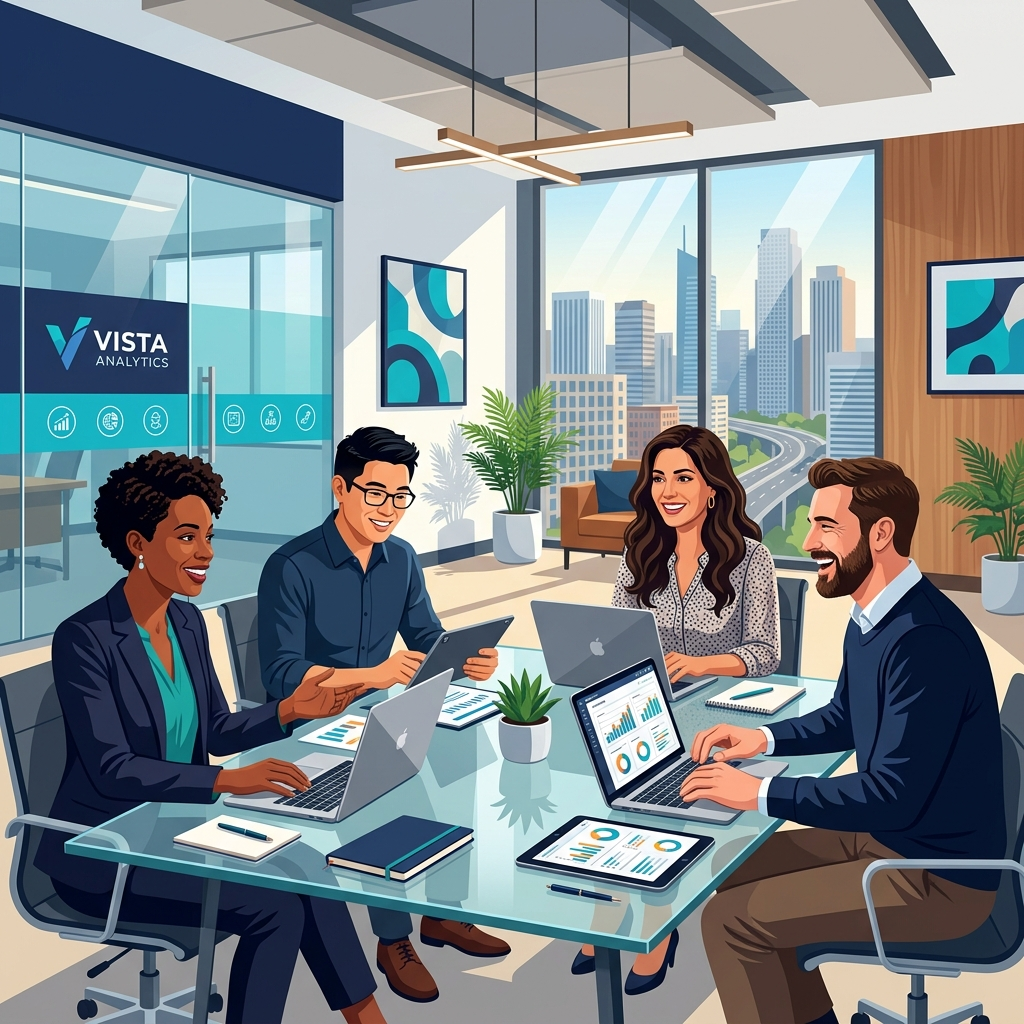
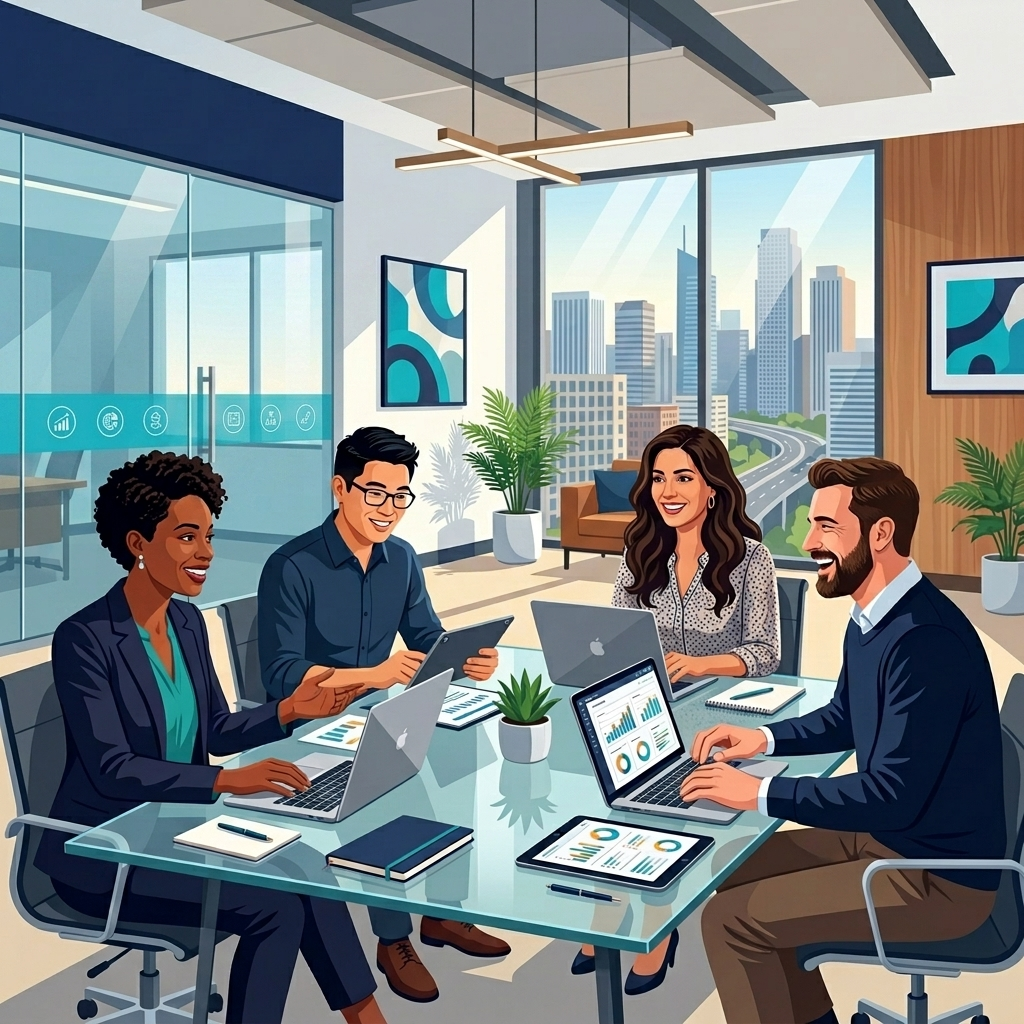
faster

diff --git a/src/index.css b/src/index.css
@@ -647,7 +647,7 @@ h1, h2, h3, h4, h5, h6 {
   border-radius: 50%;
   pointer-events: none;
   z-index: 2;
-  animation: blobFloat1 9s ease-in-out infinite;
+/* animation removed for performance */
 }
 
 .hero-orb-2 {
@@ -660,7 +660,7 @@ h1, h2, h3, h4, h5, h6 {
   border-radius: 50%;
   pointer-events: none;
   z-index: 2;
-  animation: blobFloat2 12s ease-in-out infinite;
+/* animation removed for performance */
 }
 
 .hero-orb-3 {
@@ -673,7 +673,7 @@ h1, h2, h3, h4, h5, h6 {
   border-radius: 50%;
   pointer-events: none;
   z-index: 2;
-  animation: blobFloat3 16s ease-in-out infinite;
+/* animation removed for performance */
 }
 
 /* Decorative geometric ring */
@@ -687,7 +687,7 @@ h1, h2, h3, h4, h5, h6 {
   border-radius: 50%;
   pointer-events: none;
   z-index: 2;
-  animation: spinSlow 20s linear infinite;
+/* animation removed for performance */
 }
 
 .hero-ring::before {
@@ -725,7 +725,7 @@ h1, h2, h3, h4, h5, h6 {
   border-bottom: 52px solid rgba(71,176,199,0.10);
   pointer-events: none;
   z-index: 2;
-  animation: blobFloat1 7s ease-in-out infinite;
+/* animation removed for performance */
 }
 
 .hero-triangle-2 {
@@ -739,7 +739,7 @@ h1, h2, h3, h4, h5, h6 {
   border-bottom: 32px solid rgba(36,68,112,0.08);
   pointer-events: none;
   z-index: 2;
-  animation: blobFloat2 11s ease-in-out infinite;
+/* animation removed for performance */
 }
 
 /* Split hero layout */
@@ -791,11 +791,11 @@ h1, h2, h3, h4, h5, h6 {
 .code-window .dot { width:10px; height:10px; border-radius:50%; background:rgba(36,68,112,0.12); display:inline-block; }
 .code-window .cw-body { padding: var(--space-3); display:flex; flex-direction:column; gap: var(--space-2); }
 .code-line { height:10px; border-radius:6px; background:linear-gradient(90deg, rgba(36,68,112,0.06), rgba(71,176,199,0.08)); opacity:0.95; transform-origin:left; }
-.code-line.l1 { width:86%; animation: shimmer 2.6s var(--anim-ease) infinite; }
-.code-line.l2 { width:72%; animation: shimmer 2.4s var(--anim-ease) 0.12s infinite; }
-.code-line.l3 { width:58%; animation: shimmer 2.8s var(--anim-ease) 0.18s infinite; }
-.code-line.l4 { width:80%; animation: shimmer 2.2s var(--anim-ease) 0.08s infinite; }
-.code-line.l5 { width:48%; animation: shimmer 3s var(--anim-ease) 0.22s infinite; }
+/* animation removed for performance */
+/* animation removed for performance */
+/* animation removed for performance */
+/* animation removed for performance */
+/* animation removed for performance */
 
 /* Floating glass card */
 .floating-card { position: absolute; left: -6%; bottom: -6%; width: 320px; padding: var(--space-4); border-radius: var(--radius); transform: translateZ(24px) rotateY(6deg); z-index:4; }
@@ -809,7 +809,7 @@ h1, h2, h3, h4, h5, h6 {
   position: absolute; inset: 0; z-index: 1; pointer-events: none;
   background: radial-gradient(800px circle at 12% 28%, rgba(71,176,199,0.045), transparent 12%), radial-gradient(600px circle at 82% 30%, rgba(36,68,112,0.03), transparent 12%);
   mix-blend-mode: screen; opacity:0.9; filter: blur(12px);
-  animation: gradientShift 10s linear infinite;
+/* animation removed for performance */
 }
 
 /* responsive adjustments */
@@ -849,7 +849,7 @@ h1, h2, h3, h4, h5, h6 {
   height: auto;
   border-radius: 28px;
   filter: drop-shadow(0 28px 90px rgba(36,68,112,0.16));
-  animation: floatIllustration 6.5s var(--anim-ease) infinite;
+/* animation removed for performance */
   transition: transform 0.45s var(--anim-ease), box-shadow 0.45s var(--anim-ease);
   backface-visibility: hidden;
   will-change: transform;
@@ -867,7 +867,7 @@ h1, h2, h3, h4, h5, h6 {
   border-radius: 50%;
   background: radial-gradient(circle, rgba(71,176,199,0.15) 0%, transparent 70%);
   z-index: -1;
-  animation: pulseGlow 4s ease-in-out infinite;
+/* animation removed for performance */
 }
 
 /* Hero badge */
@@ -893,7 +893,7 @@ h1, h2, h3, h4, h5, h6 {
   height: 6px;
   background: var(--secondary);
   border-radius: 50%;
-  animation: pulse 2s ease-in-out infinite;
+/* animation removed for performance */
 }
 
 .hero-title {
@@ -1125,7 +1125,7 @@ h1, h2, h3, h4, h5, h6 {
   height: 4px;
   background: linear-gradient(90deg, var(--secondary) 0%, var(--primary) 50%, var(--secondary) 100%);
   background-size: 200% 100%;
-  animation: shimmerLine 4s linear infinite;
+/* animation removed for performance */
 }
 
 /* Wave divider for section transitions */
@@ -1398,7 +1398,7 @@ h1, h2, h3, h4, h5, h6 {
   inset: 0;
   background: linear-gradient(160deg, #F7FBFB 0%, #E0EFF6 55%, #EBF5FA 100%);
   background-size: 200% 200%;
-  animation: gradientShift 10s ease infinite;
+/* animation removed for performance */
 }
 
 .page-hero-orb {
@@ -1409,7 +1409,7 @@ h1, h2, h3, h4, h5, h6 {
   height: 560px;
   background: radial-gradient(circle, rgba(71,176,199,0.15) 0%, rgba(71,176,199,0.02) 50%, transparent 70%);
   pointer-events: none;
-  animation: blobFloat1 9s ease-in-out infinite;
+/* animation removed for performance */
 }
 
 .page-hero-content {
@@ -2012,7 +2012,7 @@ body::before {
   filter: blur(56px) saturate(105%);
   opacity: 0.95;
   transform: translateZ(0);
-  animation: bgBlobsShift 24s ease-in-out infinite;
+/* animation removed for performance */
 }
 
 /* Subtle grid texture + mesh gradient + soft noise + cyan accents */
@@ -2028,7 +2028,7 @@ body::after {
     linear-gradient(120deg, rgba(71,176,199,0.04), rgba(36,68,112,0.02) 35%, rgba(71,176,199,0.03));
   background-blend-mode: overlay, overlay, normal;
   opacity: 0.42;
-  animation: meshShift 18s linear infinite;
+/* animation removed for performance */
 }
 
 /* Moving light reflection sweep (subtle) */
@@ -2045,7 +2045,7 @@ body::after {
   transform: translateX(-110%);
   filter: blur(22px) brightness(110%);
   mix-blend-mode: screen;
-  animation: lightSweep 14s linear infinite;
+/* animation removed for performance */
 }
 
 /* Glass circles (soft rings) */
@@ -2442,7 +2442,7 @@ body::after {
   height: 3px;
   background: linear-gradient(90deg, transparent 0%, var(--secondary) 30%, var(--primary) 60%, transparent 100%);
   background-size: 200% 100%;
-  animation: shimmerLine 3s linear infinite;
+/* animation removed for performance */
 }
 
 /* Dot grid overlay */
@@ -2467,7 +2467,7 @@ body::after {
   background: radial-gradient(circle, rgba(71,176,199,0.10) 0%, transparent 70%);
   pointer-events: none;
   z-index: 0;
-  animation: blobFloat1 10s ease-in-out infinite;
+/* animation removed for performance */
 }
 
 .cta-blob-2 {
@@ -2480,7 +2480,7 @@ body::after {
   background: radial-gradient(circle, rgba(36,68,112,0.08) 0%, transparent 70%);
   pointer-events: none;
   z-index: 0;
-  animation: blobFloat2 13s ease-in-out infinite;
+/* animation removed for performance */
 }
 
 .cta-section > .container {
@@ -2696,7 +2696,7 @@ body::after {
 }
 
 /* Utility classes */
-.animate-float         { animation: float 5s ease-in-out infinite; }
+/* animation removed for performance */
 .animate-fade-in-up    { animation: fadeInUp 0.6s var(--ease-out) both; }
 .animate-fade-in-left  { animation: fadeInLeft 0.6s var(--ease-out) both; }
 .animate-fade-in-right { animation: fadeInRight 0.6s var(--ease-out) both; }
@@ -2706,7 +2706,7 @@ body::after {
 .u-anim-left   { animation: fadeInLeft var(--anim-medium) var(--anim-ease) both; will-change: transform, opacity; }
 .u-anim-right  { animation: fadeInRight var(--anim-medium) var(--anim-ease) both; will-change: transform, opacity; }
 .u-anim-scale  { animation: scaleIn var(--anim-medium) var(--anim-ease) both; will-change: transform, opacity; }
-.u-float-slow  { animation: float 6s var(--anim-ease) infinite; will-change: transform; }
+/* animation removed for performance */
 
 /* Stagger utilities (supports up to 8 children) */
 .stagger-children > * { transition: opacity var(--anim-medium) var(--anim-ease), transform var(--anim-medium) var(--anim-ease); opacity: 0; transform: translateY(14px); }
@@ -3134,4 +3134,19 @@ body::after {
   .modal-title     { font-size: 1.3rem; }
   .workmode-options { gap: var(--space-2); }
   .workmode-option  { padding: 8px 14px; font-size: 0.82rem; }
+}
+
+
+/* Center and elongate the 7th service card on the Home page */
+.home-services-grid .service-card:last-child:nth-child(7) {
+  grid-column: 1 / -1;
+  text-align: center;
+  align-items: center;
+  max-width: 800px;
+  margin: 0 auto;
+}
+.home-services-grid .service-card:last-child:nth-child(7) p {
+  max-width: 600px;
+  margin-left: auto;
+  margin-right: auto;
 }

diff --git a/src/App.jsx b/src/App.jsx
@@ -1,12 +1,13 @@
 import { BrowserRouter, Routes, Route, useLocation } from 'react-router-dom';
-import { useEffect } from 'react';
+import { useEffect, lazy, Suspense } from 'react';
 import Header from './components/Header';
 import Footer from './components/Footer';
-import Home from './pages/Home';
-import Services from './pages/Services';
-import Portfolio from './pages/Portfolio';
-import Careers from './pages/Careers';
-import About from './pages/About';
+
+const Home = lazy(() => import('./pages/Home'));
+const Services = lazy(() => import('./pages/Services'));
+const Portfolio = lazy(() => import('./pages/Portfolio'));
+const Careers = lazy(() => import('./pages/Careers'));
+const About = lazy(() => import('./pages/About'));
 
 function ScrollToTop() {
   const { pathname } = useLocation();
@@ -29,20 +30,22 @@ export default function App() {
     <BrowserRouter>
       <ScrollToTop />
       <Layout>
-        <Routes>
-          <Route path="/" element={<Home />} />
-          <Route path="/services" element={<Services />} />
-          <Route path="/portfolio" element={<Portfolio />} />
-          <Route path="/careers" element={<Careers />} />
-          <Route path="/about" element={<About />} />
-          <Route path="*" element={
-            <div style={{ minHeight: '100vh', display: 'flex', flexDirection: 'column', alignItems: 'center', justifyContent: 'center', gap: 16, paddingTop: 80 }}>
-              <div style={{ fontSize: '5rem' }}>🚀</div>
-              <h1 style={{ fontFamily: 'var(--font-heading)', fontSize: '2rem', background: 'var(--gradient-primary)', WebkitBackgroundClip: 'text', WebkitTextFillColor: 'transparent' }}>404 — Page Not Found</h1>
-              <a href="/" className="btn btn-primary">Go Home</a>
-            </div>
-          } />
-        </Routes>
+        <Suspense fallback={<div style={{ minHeight: '100vh', display: 'flex', alignItems: 'center', justifyContent: 'center', fontSize: '1.2rem', color: 'var(--text-secondary)' }}>Loading...</div>}>
+          <Routes>
+            <Route path="/" element={<Home />} />
+            <Route path="/services" element={<Services />} />
+            <Route path="/portfolio" element={<Portfolio />} />
+            <Route path="/careers" element={<Careers />} />
+            <Route path="/about" element={<About />} />
+            <Route path="*" element={
+              <div style={{ minHeight: '100vh', display: 'flex', flexDirection: 'column', alignItems: 'center', justifyContent: 'center', gap: 16, paddingTop: 80 }}>
+                <div style={{ fontSize: '5rem' }}>🚀</div>
+                <h1 style={{ fontFamily: 'var(--font-heading)', fontSize: '2rem', background: 'var(--gradient-primary)', WebkitBackgroundClip: 'text', WebkitTextFillColor: 'transparent' }}>404 — Page Not Found</h1>
+                <a href="/" className="btn btn-primary">Go Home</a>
+              </div>
+            } />
+          </Routes>
+        </Suspense>
       </Layout>
     </BrowserRouter>
   );

diff --git a/src/pages/Home.jsx b/src/pages/Home.jsx
@@ -181,7 +181,7 @@ export default function Home() {
               ref={addRef}
               data-delay="0"
             >
-              <img src="/team.png" alt="AspireCode team collaborating" />
+              <img src="/team.png" alt="AspireCode team collaborating" loading="lazy" />
             </div>
 
             <div className="fade-in-section fade-right" ref={addRef} data-delay="100">
@@ -229,7 +229,7 @@ export default function Home() {
             </p>
           </div>
 
-          <div className="services-grid stagger-children" data-delay="60" style={{ position: 'relative', zIndex: 1 }}>
+          <div className="services-grid home-services-grid stagger-children" data-delay="60" style={{ position: 'relative', zIndex: 1 }}>
             {services.map((s, i) => (
               <div
                 key={s.title}
@@ -283,7 +283,7 @@ export default function Home() {
                 data-delay={`${i * 100}`}
               >
                 <div className="portfolio-img-wrap">
-                  <img src={p.img} alt={p.title} />
+                  <img src={p.img} alt={p.title} loading="lazy" />
                   <div className="portfolio-overlay">
                     <Link
                       to="/portfolio"

diff --git a/src/main.jsx b/src/main.jsx
@@ -14,8 +14,8 @@ createRoot(document.getElementById('root')).render(
 window.requestAnimationFrame(() => {
   try {
     initButtonRipples();
-    initButtonMagnetic();
-    initCursorInteractions();
+    // initButtonMagnetic(); // Disabled for performance
+    // initCursorInteractions(); // Disabled for performance
   } catch {
     // silent fail in SSR or test env
   }

diff --git a/index.html b/index.html
@@ -12,6 +12,7 @@
     <link rel="preconnect" href="https://fonts.googleapis.com" />
     <link rel="preconnect" href="https://fonts.gstatic.com" crossorigin />
     <link href="https://fonts.googleapis.com/css2?family=Outfit:wght@300;400;500;600;700;800;900&family=Inter:wght@300;400;500;600;700&display=swap" rel="stylesheet" />
+    <link rel="preload" href="/hero.png" as="image" />
   </head>
   <body>
     <div id="root"></div>